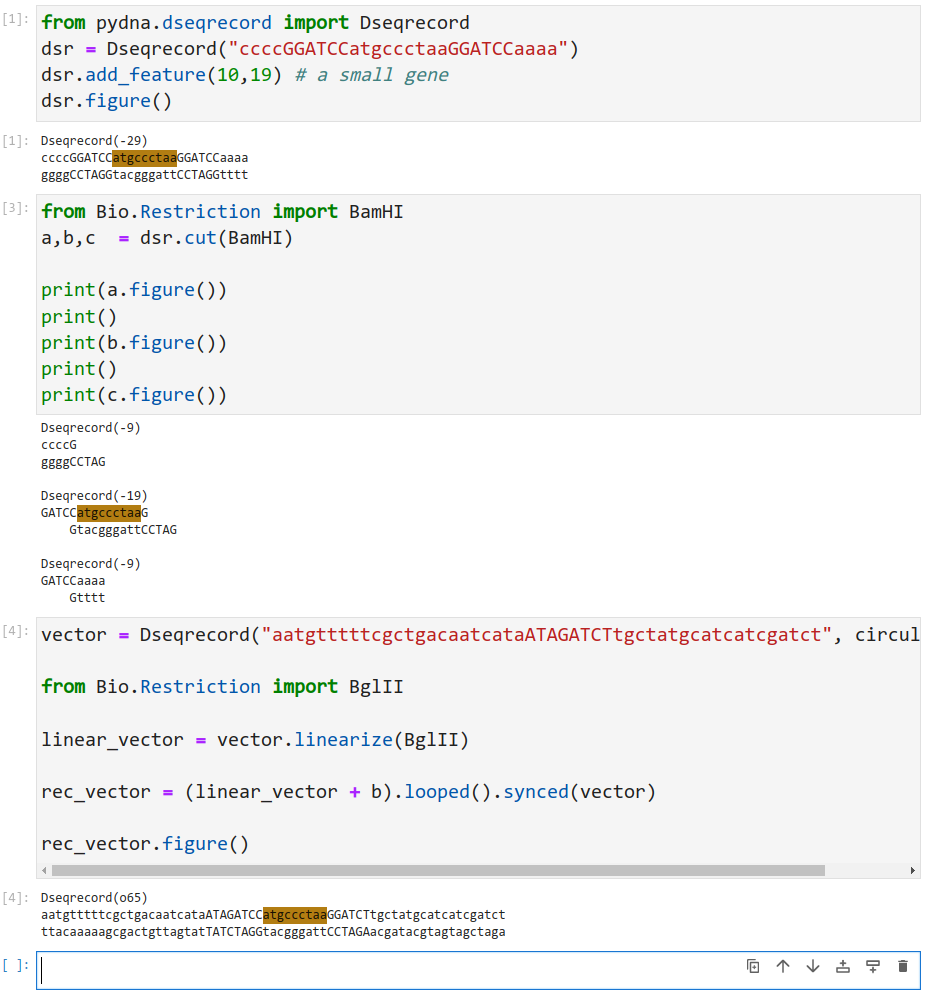
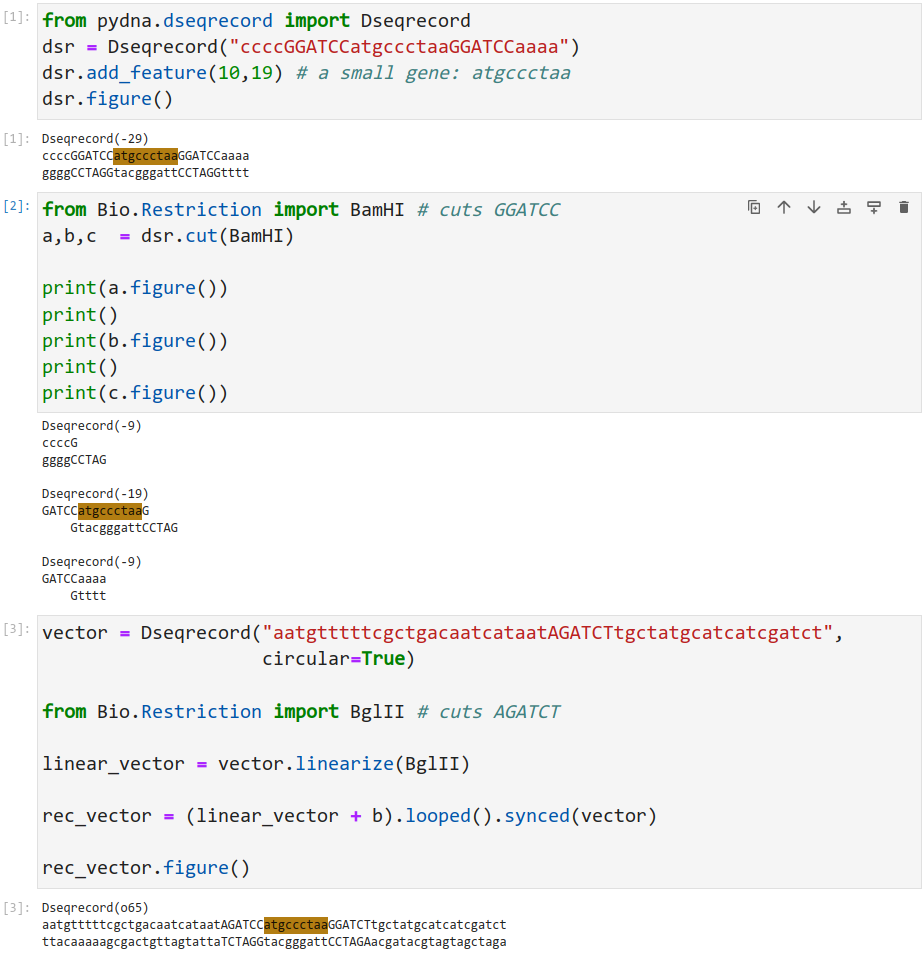
fix example

diff --git a/README.md b/README.md
@@ -40,14 +40,14 @@ Pydna can formalize planning and sharing of cloning strategies and is especially
 DNA molecule constructions.
 
 
-To get started, we have compiled some [simple examples](https://github.com/MetabolicEngineeringGroupCBMA/pydna-examples#pydna-examples).
+To get started, I have compiled some [simple examples](https://github.com/MetabolicEngineeringGroupCBMA/pydna-examples#pydna-examples).
 For more elaborate use, look at some assembly strategies of D-xylose metabolic pathways [MetabolicEngineeringGroupCBMA/ypk-xylose-pathways](https://github.com/MetabolicEngineeringGroupCBMA/ypk-xylose-pathways#pereira-et-al-2016).
 
 
 
 
 
-![-----------------------------------------------------](https://raw.githubusercontent.com/andreasbm/readme/master/assets/lines/colored.png)
+![----](https://raw.githubusercontent.com/andreasbm/readme/master/assets/lines/colored.png)
 
 
 
@@ -58,14 +58,13 @@ classes Dseq and Dseqrecord, which are subclasses of the [Biopython](http://biop
 
 These classes make cut and paste cloning and PCR very simple:
 
-![example](https://raw.githubusercontent.com/BjornFJohansson/pydna/master/docs/example.png)
+[![example](https://raw.githubusercontent.com/BjornFJohansson/pydna/master/docs/example.png)](https://github.com/BjornFJohansson/pydna/blob/5b53ffc9ff7ba24485d01bc967714d85f17eec9c/docs/example.ipynb)
 
-As the example above shows, pydna keeps track of sticky ends.
+As the example above shows, pydna keeps track of sticky ends and features.
 
-Notably, homologous recombination and Gibson assembly between linear DNA fragments
-can be easily simulated without any additional information besides the primary sequence of the fragments.
+Notably, pydna can simulate homologous recombination and Gibson assembly.
 
-Gel electrophoresis of DNA fragments can be simulated using the included gel module
+Gel electrophoresis of DNA fragments can be simulated using the included gel module:
 
 
     Jupyter QtConsole 4.7.7
@@ -84,7 +83,7 @@ Gel electrophoresis of DNA fragments can be simulated using the included gel mod
 
 
 
-![](https://raw.githubusercontent.com/BjornFJohansson/pydna/master/scripts/pydna_gel.png)
+![gel](https://raw.githubusercontent.com/BjornFJohansson/pydna/master/scripts/pydna_gel.png)
 
 
 Pydna can be very compact. The eleven lines of Python below simulates the construction of a recombinant plasmid.
@@ -112,12 +111,9 @@ python. This is helpful to generate examples for teaching purposes.
 Read the documentation (below) or the [cookbook](https://github.com/BjornFJohansson/pydna/blob/master/docs/cookbook/cookbook.ipynb) with example files
 for further information.
 
-Please post a message in the [google group](https://groups.google.com/d/forum/pydna)
-for pydna if you need help or have problems, questions or comments :sos:.
+Feedback & suggestions are very welcome! Please post a message in the [google group](https://groups.google.com/d/forum/pydna) for pydna if you need help or have problems, questions or comments :sos:.
 
-Feedback & suggestions are very welcome!
-
-![-----------------------------------------------------](https://raw.githubusercontent.com/andreasbm/readme/master/assets/lines/colored.png)
+![----](https://raw.githubusercontent.com/andreasbm/readme/master/assets/lines/colored.png)
 
 
 ## Who is using pydna?
@@ -139,7 +135,7 @@ In Cold Spring Harbor Laboratory (p. 2021.01.17.427048). [DOI](https://doi.org/1
 
 and other projects on [github](https://github.com/BjornFJohansson/pydna/network/dependents?package_id=UGFja2FnZS01MjQ2MjYzNQ%3D%3D)
 
-![-----------------------------------------------------](https://raw.githubusercontent.com/andreasbm/readme/master/assets/lines/colored.png)
+![----](https://raw.githubusercontent.com/andreasbm/readme/master/assets/lines/colored.png)
 
 There is an open access paper in BMC Bioinformatics describing pydna:
 
@@ -153,7 +149,7 @@ Pereira, F., Azevedo, F., Carvalho, Â., Ribeiro, G. F., Budde, M. W., & Johanss
 
 When using pydna.
 
-![-----------------------------------------------------](https://raw.githubusercontent.com/andreasbm/readme/master/assets/lines/colored.png)
+![----](https://raw.githubusercontent.com/andreasbm/readme/master/assets/lines/colored.png)
 
 ## Documentation
 
@@ -162,7 +158,7 @@ in the code and displayed at readthedocs [![Documentation Status](https://readth
 
 The [numpy](www.numpy.org) [docstring format](https://github.com/numpy/numpy/blob/release/doc/HOWTO_DOCUMENT.rst.txt) is used.
 
-![-----------------------------------------------------](https://raw.githubusercontent.com/andreasbm/readme/master/assets/lines/colored.png)
+![----](https://raw.githubusercontent.com/andreasbm/readme/master/assets/lines/colored.png)
 
 ## Installation using pip
 
@@ -193,13 +189,13 @@ By default python and pip are not on the PATH. You can re-install Python and sel
 
     C:\Python37\Scripts\pip install pydna
 
-![-----------------------------------------------------](https://raw.githubusercontent.com/andreasbm/readme/master/assets/lines/colored.png)
+![----](https://raw.githubusercontent.com/andreasbm/readme/master/assets/lines/colored.png)
 
 ## Source Code
 
 Pydna is developed on [Github](https://github.com/BjornFJohansson/pydna) :octocat:.
 
-![-----------------------------------------------------](https://raw.githubusercontent.com/andreasbm/readme/master/assets/lines/colored.png)
+![----](https://raw.githubusercontent.com/andreasbm/readme/master/assets/lines/colored.png)
 
 ## Minimal installation dependencies
 
